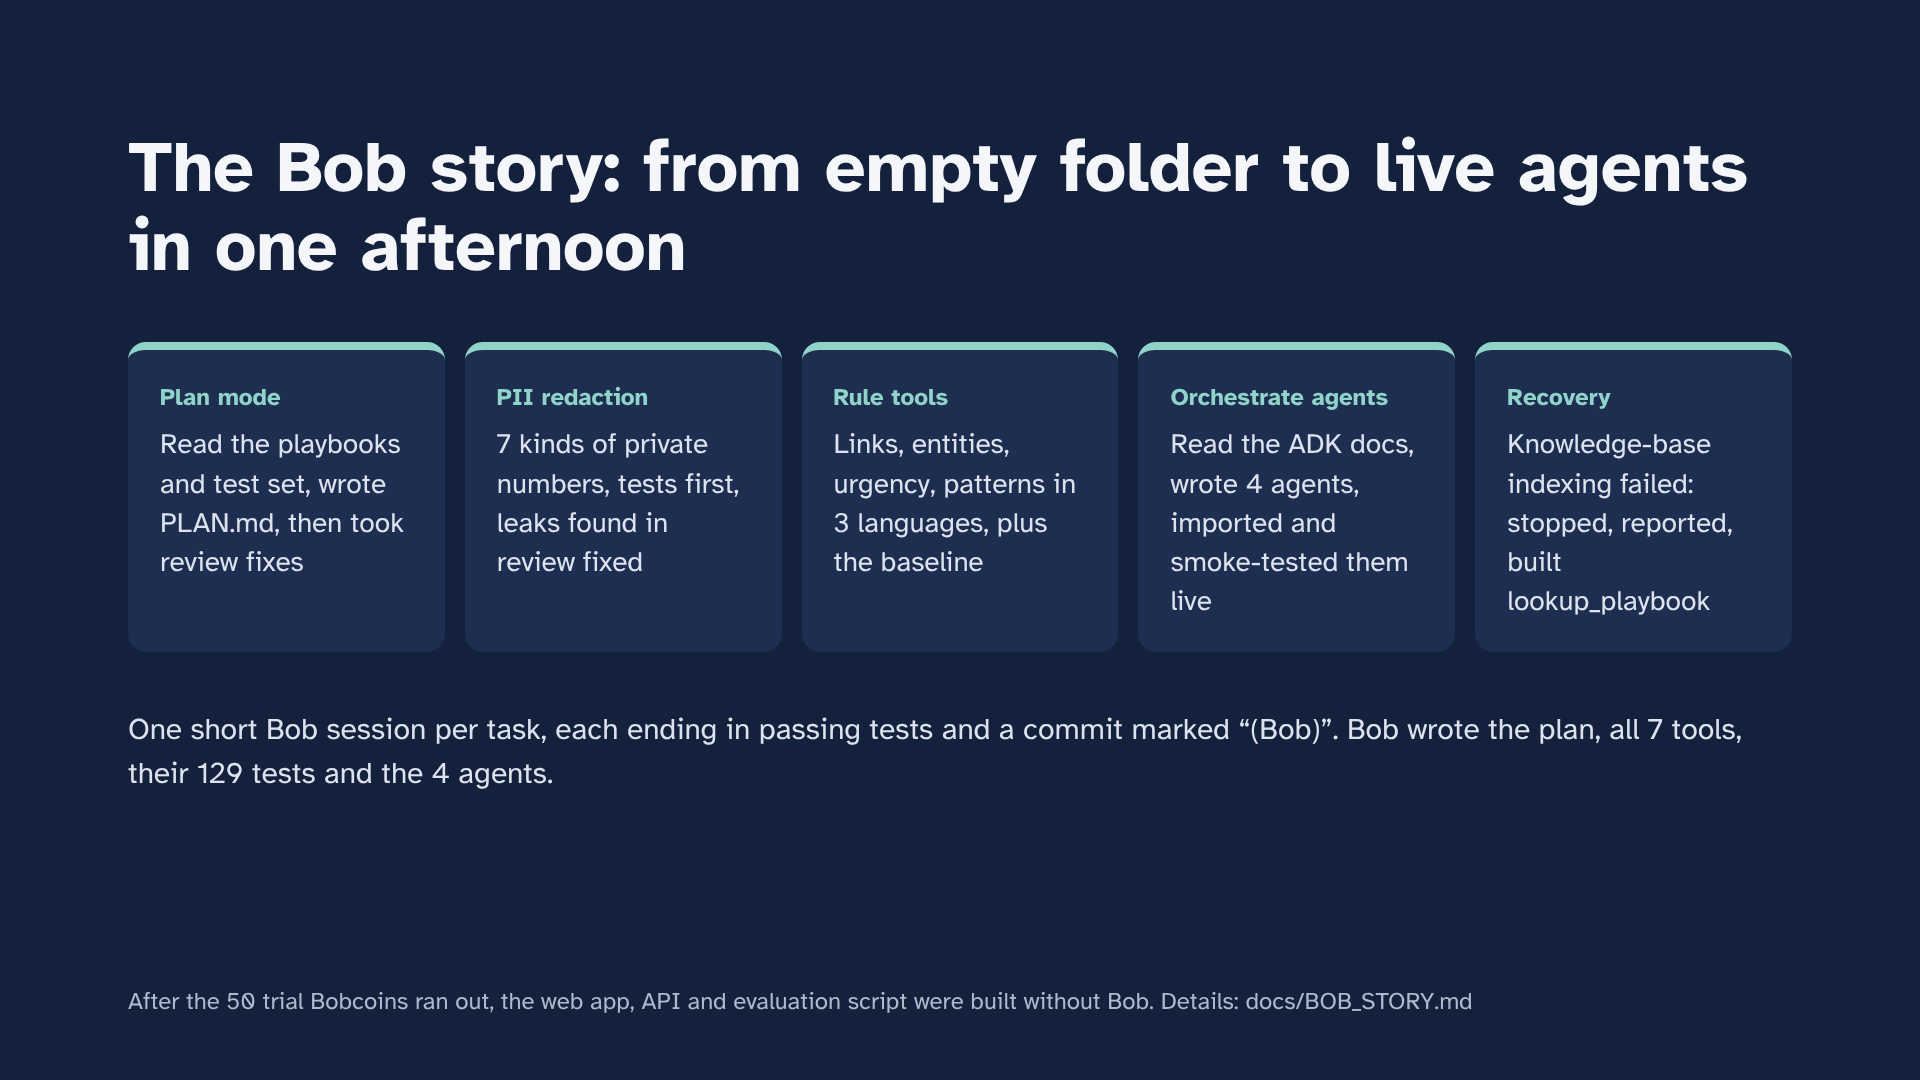
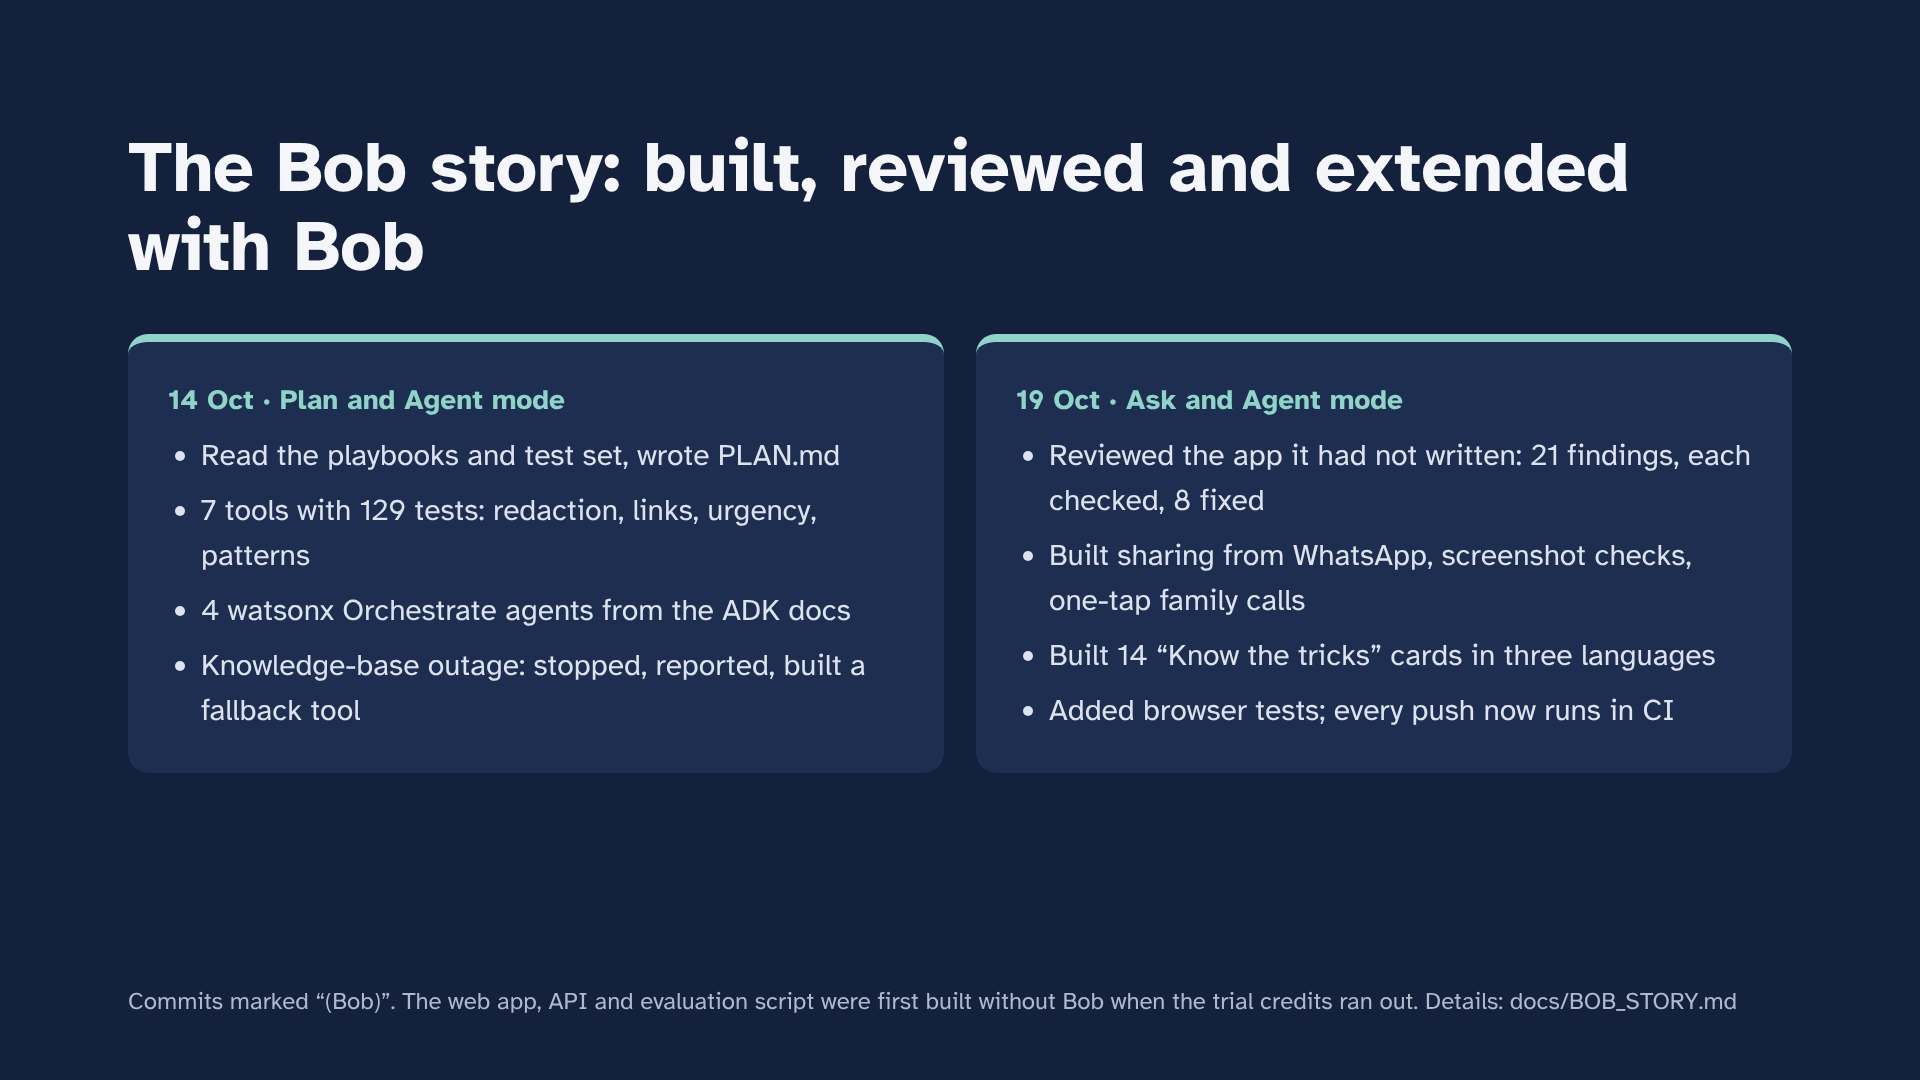
Demo and docs: new features in the video (share, screenshot, call family, tricks), updated Bob story

diff --git a/demo/timeline.py b/demo/timeline.py
@@ -14,19 +14,23 @@ SCENES = [
     {"kind": "slide", "name": "cover", "seconds": 13,
      "say": "A scam call can take a senior’s savings in minutes, before they think to call anyone. "
             "Scam Shield gives Bengaluru’s senior citizens a second opinion in that moment, in Kannada, Hindi or English."},
-    {"kind": "slide", "name": "problem", "seconds": 11,
+    {"kind": "slide", "name": "problem", "seconds": 10,
      "say": "Digital arrest, power-cut threats, a grandson on a new number. They all rush and isolate the victim."},
-    {"kind": "slide", "name": "need", "seconds": 10,
+    {"kind": "slide", "name": "need", "seconds": 9,
      "say": "So help has to come in seconds, in their language, even while the call is still going, and without sharing anything private."},
     {"kind": "scene", "name": "check_en", "seconds": 26,
-     "title": "Check a message", "sub": "English · a “digital arrest” SMS",
-     "say": "Paste or speak the message. Scam Shield masks private numbers, here the phone number and OTP, "
-            "before anything reaches an AI model, then IBM watsonx Orchestrate agents decide. "
+     "title": "Check a message", "sub": "Shared straight from WhatsApp",
+     "say": "Share a message straight from WhatsApp, or paste or speak it. Private numbers, like this phone number and OTP, "
+            "are masked before anything reaches an AI model; then IBM watsonx Orchestrate agents decide. "
             "Red: this looks like a scam, why, and exactly what to do."},
+    {"kind": "scene", "name": "screenshot", "seconds": 18,
+     "title": "Check a screenshot", "sub": "Text read on the phone; the image is never uploaded",
+     "say": "Many scams arrive as images. Pick a screenshot: the text is read on the phone itself, "
+            "the image is never uploaded, and it is checked the same way."},
     {"kind": "scene", "name": "call_kn", "seconds": 24,
      "title": "“I’m on a call right now”", "sub": "ಕನ್ನಡ · tap what the caller is saying",
-     "say": "During a call there’s no time to type. Tap what the caller is saying, "
-            "and the answer comes back in Kannada, read aloud: hang up now."},
+     "say": "During a call there’s no time to type. Tap what the caller is saying, and the answer comes back in Kannada: "
+            "hang up now. One tap calls the family, and the steps to report are right there."},
     {"kind": "scene", "name": "alert", "seconds": 15,
      "title": "Alert my family", "sub": "Only after the user says yes",
      "say": "Alerting family needs the user’s yes, and the agent’s tool refuses without it. "
@@ -34,16 +38,19 @@ SCENES = [
     {"kind": "scene", "name": "genuine", "seconds": 10,
      "title": "No false alarm", "sub": "A real bank OTP message",
      "say": "And it doesn’t cry wolf: a real bank OTP message is marked safe."},
+    {"kind": "scene", "name": "tricks", "seconds": 10,
+     "title": "Know the tricks", "sub": "हिन्दी · learn the patterns before a scam arrives",
+     "say": "Before any scam arrives, short cards in Hindi, Kannada and English teach the common tricks."},
     {"kind": "card", "name": "bob_card", "seconds": 16,
-     "say": "I built the plan, the tools and the four agents with IBM Bob. Bob’s Plan mode read the scam playbooks "
-            "and wrote the build plan; Agent mode built each tool test-first and set up the Orchestrate agents from the ADK docs."},
+     "say": "I built the plan, the tools and the four agents with IBM Bob: Plan mode wrote the build plan, "
+            "and Agent mode built each tool test-first and set up the Orchestrate agents."},
     {"kind": "clip", "name": "bob_shell", "seconds": 0, "say": ""},
-    {"kind": "slide", "name": "bobstory", "seconds": 14,
-     "say": "When knowledge-base indexing failed, Bob stopped and built a fallback tool. "
-            "After the trial credits ran out, I built the web app and API without Bob."},
+    {"kind": "slide", "name": "bobstory", "seconds": 15,
+     "say": "Later, Bob reviewed the app layer it hadn’t written; I checked its 21 findings and fixed 8. "
+            "Then Bob built WhatsApp sharing, screenshot checks, one-tap family calls, the awareness cards, and browser tests in CI."},
     {"kind": "slide", "name": "headline", "seconds": 12,
      "say": "On 22 scam messages it had never seen, keyword rules caught 4. Scam Shield caught 21, in about four seconds."},
-    {"kind": "slide", "name": "results", "seconds": 11,
+    {"kind": "slide", "name": "results", "seconds": 10,
      "say": "One false alarm in 18 genuine messages, and we publish the misses too."},
     {"kind": "slide", "name": "close", "seconds": 8,
      "say": "When in doubt, check first. The code and full results are on GitHub."},
@@ -54,3 +61,14 @@ ROW1 = ("This is Inspector Rao from Mumbai Cyber Crime. Your Aadhaar is linked t
         "You are under digital arrest. Stay on video call and do not inform anyone or you will be jailed. "
         "Call +91 98765 43210 and share the OTP 482913.")
 ROW37 = "123456 is your OTP for login to SBI YONO. Valid for 5 mins. Do not share OTP with anyone. -SBI"
+
+# A sample SMS screenshot for the screenshot scene (rendered at record time, then read by on-device OCR).
+SAMPLE_SMS = """<html><body style="margin:0;background:#E9EDF2;font-family:Arial,sans-serif">
+<div style="padding:28px 24px">
+<p style="margin:0 0 14px;font-size:22px;color:#55606E;font-weight:bold">VM-ELECTR · SMS</p>
+<div style="background:#FFFFFF;border-radius:22px;padding:24px 26px;font-size:30px;line-height:1.4;color:#111">
+Dear Consumer, your electricity power will be disconnected tonight at 9.30 PM because your previous month bill
+was not updated. Please immediately contact our electricity officer 97xxxxxx40.</div>
+<p style="margin:10px 0 0;font-size:20px;color:#7A8594;text-align:right">8:42 PM</p>
+</div></body></html>"""
+

diff --git a/demo/record.py b/demo/record.py
@@ -23,7 +23,8 @@ from pathlib import Path
 
 sys.path.insert(0, str(Path(__file__).resolve().parent))
 from common import OUT  # noqa: E402
-from timeline import ROW1, ROW37  # noqa: E402
+from timeline import ROW1, ROW37, SAMPLE_SMS  # noqa: E402
+from urllib.parse import quote  # noqa: E402
 
 VIEW = {"width": 540, "height": 1080}
 
@@ -76,13 +77,15 @@ def run(base: str, allow_fallback: bool, headed: bool, only: list[str] | None):
     with sync_playwright() as p:
         browser = p.chromium.launch(headless=not headed)
 
-        def scene(name):
+        def scene(name, path="/", family=None):
             ctx = browser.new_context(viewport=VIEW, device_scale_factor=2,
                                       record_video_dir=str(tmp / name), record_video_size=VIEW)
             ctx.add_init_script(TAP_SCRIPT)
+            if family:  # a family number saved earlier on this phone
+                ctx.add_init_script(f"try{{localStorage.setItem('familyPhone','{family}')}}catch(e){{}}")
             pg = ctx.new_page()
             pg.on("response", watch)
-            pg.goto(base + "/")
+            pg.goto(base + path)
             pg.evaluate("document.fonts.ready")
             pg.wait_for_timeout(1200)
             return ctx, pg
@@ -105,13 +108,12 @@ def run(base: str, allow_fallback: bool, headed: bool, only: list[str] | None):
                 pg.evaluate(f"scrollTo(0, {start + (to - start) * i / steps})")
                 pg.wait_for_timeout(60)
 
-        todo = only or ["check_en", "call_kn", "alert", "genuine"]
+        todo = only or ["check_en", "screenshot", "call_kn", "alert", "genuine", "tricks"]
 
         if "check_en" in todo:
-            ctx, pg = scene("check_en")
-            pg.click("#msg")
-            pg.keyboard.insert_text(ROW1)  # like a paste
-            pg.wait_for_timeout(1800)
+            # Opened the way Android's share sheet opens it: the shared text arrives in the URL.
+            ctx, pg = scene("check_en", path="/?share_text=" + quote(ROW1))
+            pg.wait_for_timeout(2500)
             pg.click("#btn-check")
             wait_verdict(pg)
             pg.wait_for_timeout(3500)
@@ -124,8 +126,31 @@ def run(base: str, allow_fallback: bool, headed: bool, only: list[str] | None):
             pg.wait_for_timeout(1500)
             finish("check_en", ctx, pg)
 
+        if "screenshot" in todo:
+            sample = tmp / "sample-sms.png"
+            sample.parent.mkdir(parents=True, exist_ok=True)
+            maker = browser.new_page(viewport={"width": 540, "height": 420}, device_scale_factor=2)
+            maker.set_content(SAMPLE_SMS)
+            maker.screenshot(path=str(sample))
+            maker.close()
+            ctx, pg = scene("screenshot")
+            pg.wait_for_timeout(800)
+            with pg.expect_file_chooser() as fc:
+                pg.click("#btn-ocr")
+            fc.value.set_files(str(sample))
+            pg.wait_for_function("document.querySelector('#msg').value.length > 40 || !document.querySelector('#home-error').hidden",
+                                 timeout=180_000)
+            if pg.is_visible("#home-error"):
+                raise FallbackUsed("screenshot: text recognition failed (" + pg.inner_text("#home-error") + ")")
+            pg.wait_for_timeout(2500)
+            pg.click("#btn-check")
+            wait_verdict(pg)
+            pg.wait_for_timeout(4000)
+            pg.screenshot(path=str(screens_dir / "verdict-screenshot.png"))
+            finish("screenshot", ctx, pg)
+
         if "call_kn" in todo:
-            ctx, pg = scene("call_kn")
+            ctx, pg = scene("call_kn", family="9876543210")
             pg.click("[data-lang=kn]")
             pg.wait_for_timeout(1200)
             pg.click("#btn-call")
@@ -179,6 +204,18 @@ def run(base: str, allow_fallback: bool, headed: bool, only: list[str] | None):
             pg.screenshot(path=str(screens_dir / "verdict-genuine.png"))
             finish("genuine", ctx, pg)
 
+        if "tricks" in todo:
+            ctx, pg = scene("tricks")
+            pg.click("[data-lang=hi]")
+            pg.wait_for_timeout(1000)
+            pg.click("#btn-tricks")
+            pg.wait_for_timeout(3500)
+            pg.screenshot(path=str(screens_dir / "tricks-hi.png"))
+            for _ in range(2):
+                pg.click("#btn-tricks-next")
+                pg.wait_for_timeout(3000)
+            finish("tricks", ctx, pg)
+
         browser.close()
     shutil.rmtree(tmp, ignore_errors=True)
 
@@ -188,7 +225,7 @@ def main():
     ap.add_argument("--base", default="http://localhost:8000")
     ap.add_argument("--allow-fallback", action="store_true", help="testing only: keep scenes answered by the rules")
     ap.add_argument("--headed", action="store_true", help="show the browser while recording")
-    ap.add_argument("--only", nargs="*", help="re-record some scenes: check_en call_kn alert genuine")
+    ap.add_argument("--only", nargs="*", help="re-record some scenes: check_en screenshot call_kn alert genuine tricks")
     args = ap.parse_args()
 
     import urllib.request

diff --git a/demo/compose.py b/demo/compose.py
@@ -74,10 +74,10 @@ def bob_card() -> str:
     log = git("log", "--reverse", "-F", "--grep=(Bob", "--date=format:%d %b %H:%M",
               "--format=%h  %ad  %s").strip().splitlines()
     rows = "".join(
-        f"<p style='font-size:24px;line-height:1.7;color:{SOFT};font-family:monospace;white-space:nowrap;"
+        f"<p style='font-size:20px;line-height:1.55;color:{SOFT};font-family:monospace;white-space:nowrap;"
         f"overflow:hidden;text-overflow:ellipsis'>"
         f"<span style='color:{MINT}'>{html.escape(l[:7])}</span>{html.escape(l[7:])}</p>"
-        for l in log[:12]
+        for l in log[:20]
     ) or f"<p style='font-size:28px;color:{SOFT}'>(git log not available)</p>"
     plan = (ROOT / "PLAN.md").read_text(encoding="utf-8").splitlines() if (ROOT / "PLAN.md").exists() else []
     start = next((i for i, l in enumerate(plan) if l.startswith("## Milestones")), 0)

diff --git a/README.md b/README.md
@@ -20,7 +20,9 @@ Older adults are the main targets of "digital arrest", KYC, electricity-cutoff, 
 - **Check a screenshot.** Pick a screenshot from the gallery; the text is read on the phone and the image is never uploaded. Language data downloads on first use.
 - **"I'm on a call right now".** Big buttons describe what the caller is saying ("says police", "asks for OTP", "says don't tell anyone"), and the app replies with an instruction like "Hang up now". No typing during a call.
 - **Alert my family**, with human review built in. Nothing is drafted until the user confirms, and the user sends the message themselves on WhatsApp or SMS. The family number stays on the phone.
+- **Call my family.** Save a family member's number once (kept only on the phone); on a scam or "not sure" answer a large button calls them in one tap.
 - **How to report.** 1930, cybercrime.gov.in and Chakshu (Sanchar Saathi), in the user's language.
+- **Know the tricks.** 14 short cards on common scams, in English, Hindi and Kannada, with read-aloud, so seniors can learn the patterns before a scam arrives.
 
 ## Results
 
@@ -87,7 +89,7 @@ python backend/agent_ids.py          # paste the printed ids into .env
 uvicorn backend.main:app --reload    # open http://localhost:8000
 ```
 
-Tests (no credentials needed): `python -m pytest agents/tools backend -q`
+Tests (no credentials needed): `python -m pytest agents/tools backend -q` and, for the browser tests, `python -m playwright install chromium && python -m pytest tests/e2e -q`. Both run in CI on every push.
 
 Re-run the evaluation (backend must be running): `python eval/eval.py`. Rules-only baseline: `python eval/baseline.py --compare eval/holdout_set.csv`.
 
@@ -116,8 +118,8 @@ Re-run the evaluation (backend must be running): `python eval/eval.py`. Rules-on
 
 - Tested on 100 team-written messages, not real-world traffic. A larger, independently written test set is the next step.
 - Answers take about 4 seconds; a slow agent call occasionally times out and falls back to the rules.
-- Hindi and Kannada output should be reviewed by native speakers.
-- The prototype runs on a watsonx Orchestrate trial instance.
+- Hindi and Kannada text (screens, awareness cards and agent replies) should be reviewed by native speakers.
+- The prototype runs on a watsonx Orchestrate trial instance. Live verdicts need an active instance and the agent ids in `.env`; without one, the app answers from the offline rules and says so. The demo video shows the agents running.
 
 ## License
 

diff --git a/docs/BOB_STORY.md b/docs/BOB_STORY.md
@@ -63,10 +63,16 @@ Commits: `5c727e8` Fix verified review findings + review log (Bob) · `e28e1b5` 
 
 ## 6. New features built with Bob
 
-After the review session, three new user-facing features were added entirely in Bob Agent mode.
+After the review session, the following were built entirely in Bob Agent mode, one short session each, with the evaluated agents (triage, scam_analyst) left untouched so the measured results still apply.
 
 | Commit | Feature |
 |---|---|
 | `fe6411d` | **Share target** — PWA Web Share Target registered in `manifest.json`; `applyShareParams()` in `app.js` reads the `share_text` / `share_title` query params and pre-fills the message box. On Android this lets a user tap "Share" on any WhatsApp message and have it land directly in Scam Shield. |
 | `9afba85` | **Screenshot OCR** — Tesseract.js (loaded from CDN) runs entirely on the device; the image is never sent to the server. `btn-ocr` opens a hidden `<input type="file">`, OCR runs with the right language pack (`eng`, `hin+eng`, `kan+eng`) and the extracted text drops into the message box ready to check. Language data is cached by the browser on first use. |
 | `ce6ffaa` | **CI** — GitHub Actions workflow (`.github/workflows/tests.yml`) runs `pytest` on every push; the badge in the README reflects the latest run. |
+| `3d90486` | **OCR language fix and docs** — screenshots in Hindi or Kannada are read as `hin+eng` / `kan+eng`, since they often mix in English; clearer screenshot button; README and this file updated. |
+| `2c4dff8` | **One-tap “Call my family”** — a family number saved only on the phone; on a scam or “not sure” verdict a large call button appears, first in the live-call coach. |
+| `00495b5` | **End-to-end browser tests** — Playwright tests run the real app against a mocked Orchestrate (message check, Kannada live-call coach, alert confirmation gate, share prefill, language switch), now part of CI. |
+| `640b4b9` | **“Know the tricks”** — 14 awareness cards built from the scam playbooks, in English, Hindi and Kannada, with read-aloud; no agent calls. |
+| `c7b6cbc` | **Home layout** — the red “I’m on a call right now” button moved up, the family number tucked into a collapsible setting, tricks controls rearranged for Kannada. |
+

diff --git a/demo/README.md b/demo/README.md
@@ -12,7 +12,7 @@ pip install -r demo/requirements.txt
 python -m playwright install chromium
 
 uvicorn backend.main:app          # in one terminal, with .env set up
-python demo/make_video.py         # in another: records 4 scenes, then builds the video
+python demo/make_video.py         # in another: records 6 scenes, then builds the video
 ```
 
 Output in `demo/output/`:
@@ -37,7 +37,7 @@ Save a screen recording of Bob Shell as `demo/clips/bob_shell.mp4` and it is pla
 ## Changing things
 
 - Scene order, timings and narration: `demo/timeline.py`
-- Re-record one scene: `python demo/record.py --only call_kn`, then `python demo/compose.py`
+- Re-record one scene (check_en, screenshot, call_kn, alert, genuine, tricks): `python demo/record.py --only call_kn`, then `python demo/compose.py`
 - Watch the browser while recording: add `--headed`
 - The slide images in `assets/slides/` are rendered from the deck; replace them with exports of the deck if you change the slides.
 - Fonts in `assets/fonts/` are Atkinson Hyperlegible and Noto Sans (SIL Open Font License, licences included).
